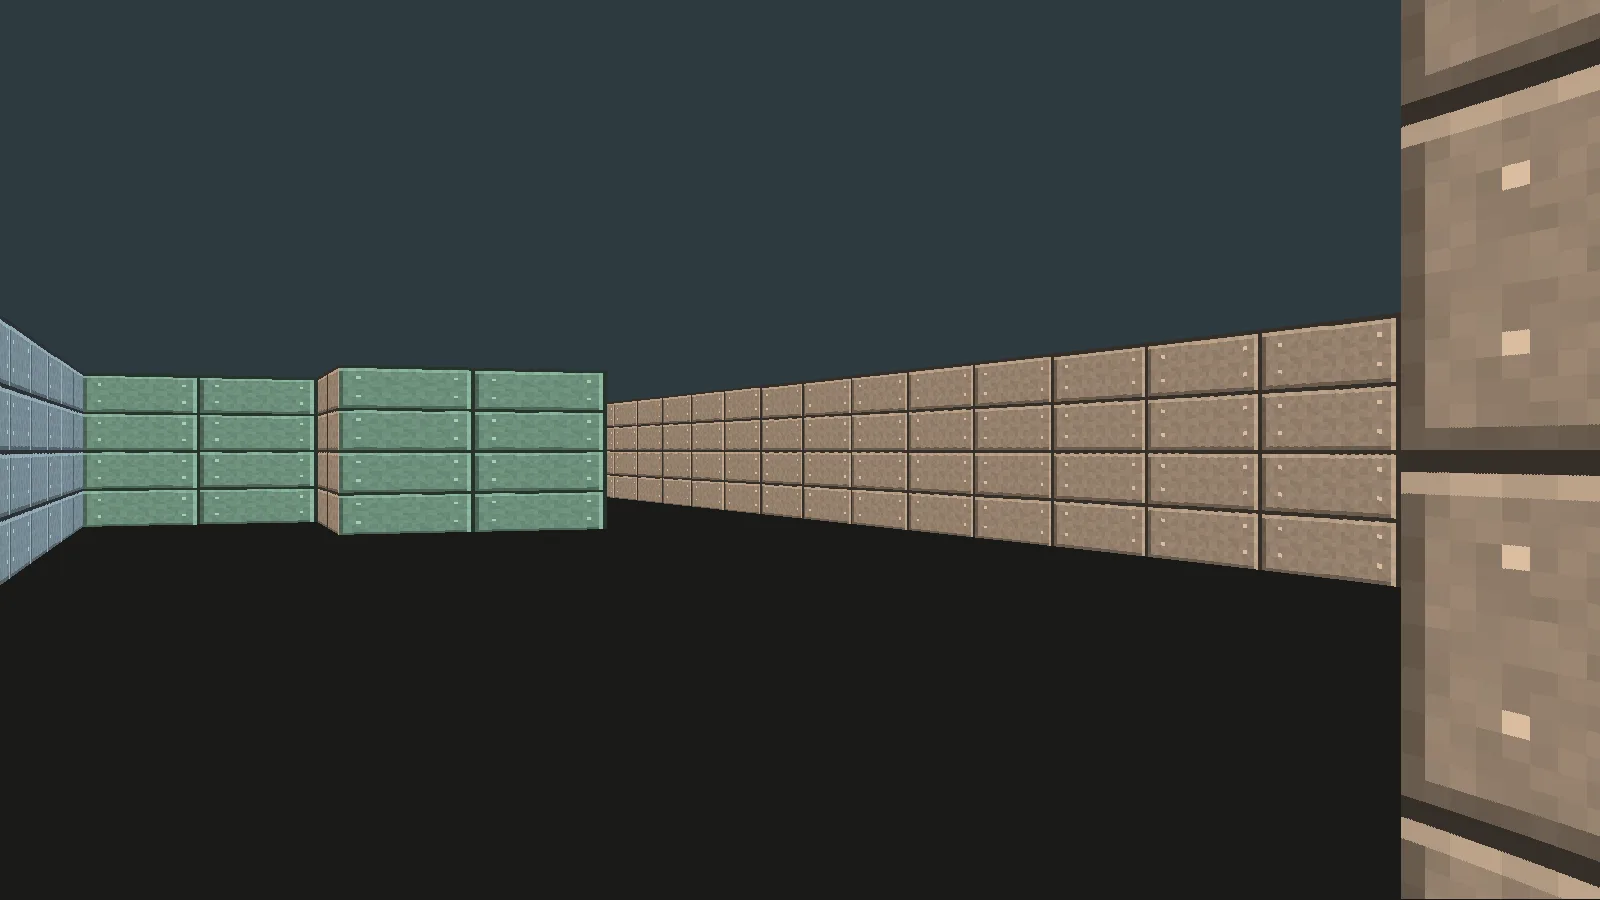
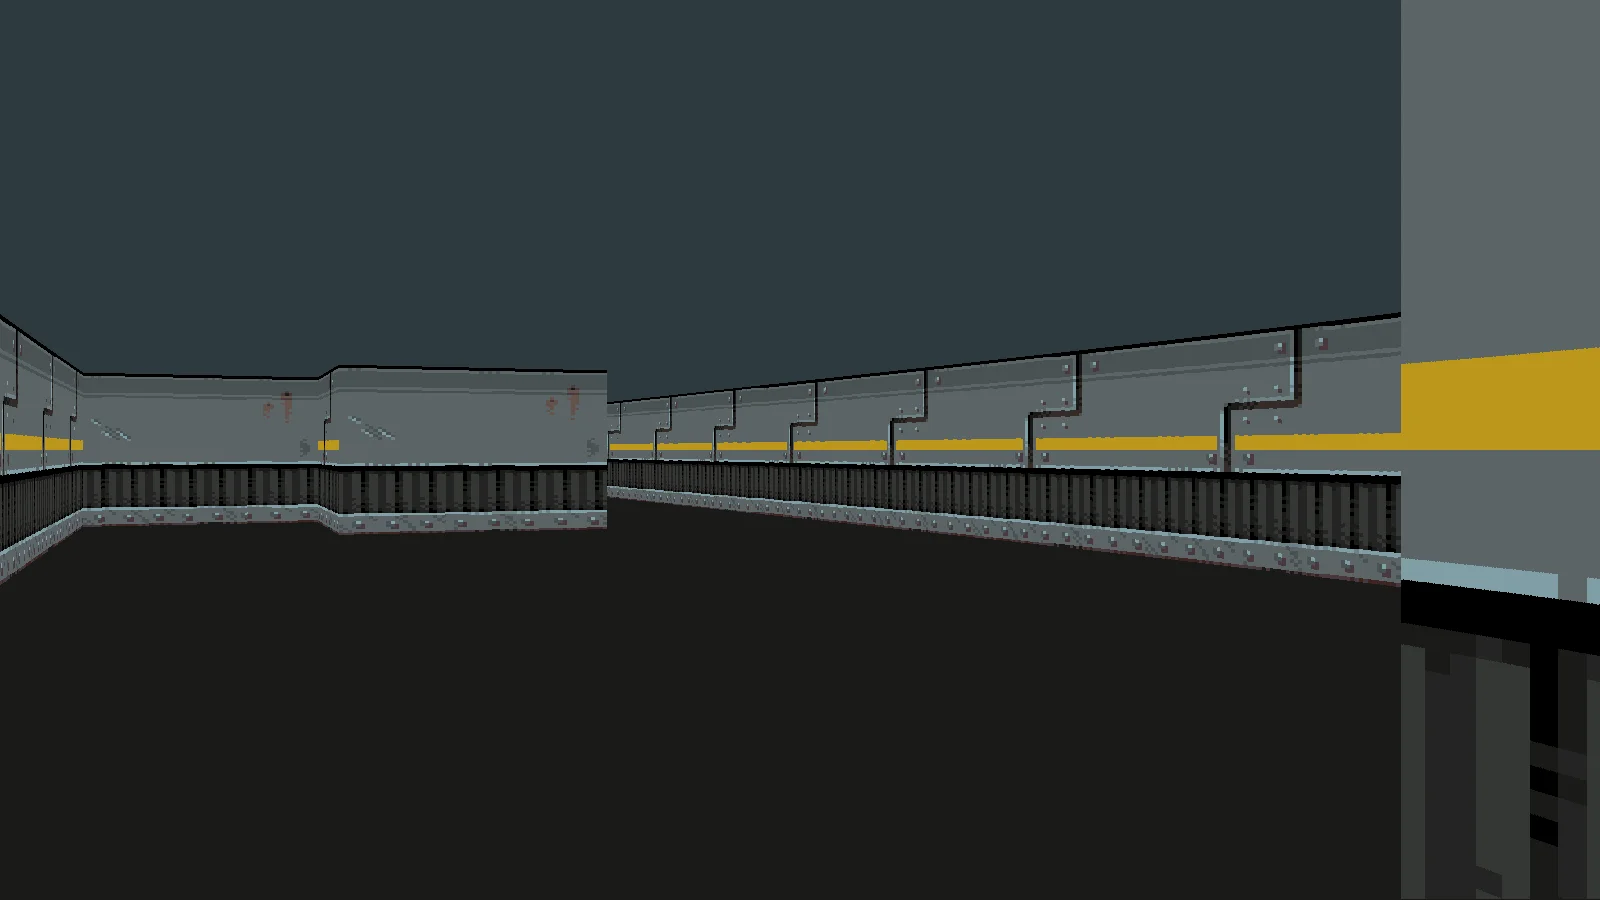
content(cub3d): use the repo's own wall textures
TECH_3B and TECH_1C from Cardano04class/cub3d/textures, converted from XPM to PNG
pixel for pixel. Each map gets the textures its .cub names per face (NO/SO/EA/WE),
replacing the generated panels. Cover and screenshots re-rendered with them.

Changed region(s): [[0.0, 0.0, 1.0, 1.0]]

diff --git a/app/components/demos/cub3d/raycast.ts b/app/components/demos/cub3d/raycast.ts
@@ -6,7 +6,9 @@
 
 export type Rgb = readonly [number, number, number];
 export type Player = { x: number; y: number; angle: number };
-export type CubMap = { grid: readonly string[]; cols: number; rows: number; floor: Rgb; ceiling: Rgb; spawn: Player };
+/** Texture file names per face, as written in the .cub (NO, SO, EA, WE = render indexes 0..3). */
+export type Faces = readonly [string, string, string, string];
+export type CubMap = { grid: readonly string[]; cols: number; rows: number; floor: Rgb; ceiling: Rgb; spawn: Player; faces: Faces };
 export type Texture = { size: number; px: Uint32Array };
 
 const FOV = (60 * Math.PI) / 180;
@@ -27,6 +29,11 @@ export function parseCub(text: string): CubMap {
         if (!parts || parts.length !== 3 || parts.some((n) => !(n >= 0 && n <= 255))) throw new Error("rgb range error");
         return [parts[0], parts[1], parts[2]];
     };
+    const face = (key: string) => {
+        const path = lines.find((l) => l.trim().startsWith(`${key} `))?.trim().split(/\s+/)[1];
+        if (!path) throw new Error("Error texture file path not found");
+        return path.slice(path.lastIndexOf("/") + 1).replace(/\.xpm$/, "");
+    };
     const configKeys = /^\s*(NO|SO|WE|EA|F|C)\s/;
     const raw = lines.filter((l) => l.trim() !== "" && !configKeys.test(l)).map((l) => l.replace(/\s+$/, ""));
     if (raw.length === 0) throw new Error("Error, map not found");
@@ -44,7 +51,7 @@ export function parseCub(text: string): CubMap {
     const grid = raw.map((row) => row.replace(/[NSEW]/, "0").replace(/ /g, "1").padEnd(cols, "1"));
     if (/[^1]/.test(grid[0])) throw new Error("error (first map row should all 1)");
     if (/[^1]/.test(grid[grid.length - 1])) throw new Error("error (last map row should be all 1)");
-    return { grid, cols, rows: grid.length, floor: rgb("F"), ceiling: rgb("C"), spawn };
+    return { grid, cols, rows: grid.length, floor: rgb("F"), ceiling: rgb("C"), spawn, faces: [face("NO"), face("SO"), face("EA"), face("WE")] };
 }
 
 const isWall = (map: CubMap, x: number, y: number) => {
@@ -119,25 +126,4 @@ export function render(buf: Uint32Array, w: number, h: number, map: CubMap, p: P
             buf[y * w + col] = t.px[ty * t.size + tx];
         }
     }
-}
-
-/** Four 64×64 tech-panel textures, one tint per wall face (the repo's own XPMs are third-party art). */
-export function makeTextures(): Texture[] {
-    const tints: Rgb[] = [[120, 140, 150], [150, 130, 110], [110, 145, 125], [140, 120, 150]];
-    return tints.map((tint) => {
-        const size = 64;
-        const px = new Uint32Array(size * size);
-        for (let y = 0; y < size; y++) {
-            for (let x = 0; x < size; x++) {
-                const seam = x % 32 === 0 || y % 16 === 0;
-                const bevel = x % 32 === 1 || y % 16 === 1 ? 1.25 : x % 32 === 31 || y % 16 === 15 ? 0.7 : 1;
-                const rivet = (x % 32 === 4 || x % 32 === 27) && (y % 16 === 4 || y % 16 === 11);
-                const noise = 0.92 + (((x * 7 + y * 13) ^ (x * y)) & 7) / 60;
-                const k = seam ? 0.35 : rivet ? 1.45 : bevel * noise;
-                const c = (v: number) => Math.min(255, Math.round(v * k));
-                px[y * size + x] = pack([c(tint[0]), c(tint[1]), c(tint[2])]);
-            }
-        }
-        return { size, px };
-    });
 }

diff --git a/app/components/demos/cub3d/cub3d-demo.tsx b/app/components/demos/cub3d/cub3d-demo.tsx
@@ -3,7 +3,8 @@
 import { useEffect, useMemo, useRef, useState } from "react";
 import type { DemoProps } from "../project-demo";
 import { MAPS } from "./maps";
-import { makeTextures, parseCub, render, step, type Player } from "./raycast";
+import { parseCub, render, step, type Player, type Texture } from "./raycast";
+import { loadFaceTextures } from "./textures";
 
 // The repo moves 0.01 tile and turns 0.5° per frame from an uncapped mlx loop, so its real speed depends on the
 // machine. The demo uses fixed per-second speeds (≈ that step at 180 fps) so every screen feels the same.
@@ -21,7 +22,14 @@ const KEYMAP: Record<string, [keyof Keys, number]> = {
 export default function Cub3dDemo({ active }: DemoProps) {
     const [mapName, setMapName] = useState<keyof typeof MAPS>("big");
     const map = useMemo(() => parseCub(MAPS[mapName]), [mapName]);
-    const textures = useMemo(() => makeTextures(), []);
+    const [textures, setTextures] = useState<{ map: typeof map; list: Texture[] } | null>(null);
+    useEffect(() => {
+        let live = true;
+        loadFaceTextures(map).then((list) => live && setTextures({ map, list }));
+        return () => {
+            live = false;
+        };
+    }, [map]);
     const canvasRef = useRef<HTMLCanvasElement>(null);
     const miniRef = useRef<HTMLCanvasElement>(null);
     const player = useRef<Player>(map.spawn);
@@ -37,7 +45,9 @@ export default function Cub3dDemo({ active }: DemoProps) {
     useEffect(() => {
         const canvas = canvasRef.current;
         const ctx = canvas?.getContext("2d");
-        if (!canvas || !ctx || !active) return;
+        // Wait for this map's textures (the repo's XPMs, decoded once) before drawing.
+        if (!canvas || !ctx || !active || textures?.map !== map) return;
+        const faceTextures = textures.list;
         function drawMinimap() {
             const c = miniRef.current?.getContext("2d");
             if (!c || miniRef.current?.classList.contains("hidden")) return;
@@ -66,7 +76,7 @@ export default function Cub3dDemo({ active }: DemoProps) {
             const dt = Math.min(0.05, (now - last) / 1000);
             last = now;
             player.current = step(map, player.current, keys.current, MOVE_PER_S * dt, TURN_PER_S * dt);
-            render(buf, W, H, map, player.current, textures);
+            render(buf, W, H, map, player.current, faceTextures);
             ctx.putImageData(img, 0, 0);
             drawMinimap();
             raf = requestAnimationFrame(frame);

diff --git a/app/components/demos/cub3d/raycast.test.ts b/app/components/demos/cub3d/raycast.test.ts
@@ -1,6 +1,7 @@
 import { test } from "node:test";
 import assert from "node:assert/strict";
-import { castRay, isWalkable, makeTextures, parseCub, render, step } from "./raycast.ts";
+import sharp from "sharp";
+import { castRay, isWalkable, parseCub, render, step, type Texture } from "./raycast.ts";
 import { MAPS } from "./maps.ts";
 
 test("the repo's maps parse: colours, size, spawn at tile centre facing the letter", () => {
@@ -56,13 +57,34 @@ test("rotation wraps into [0, 2π)", () => {
     assert.ok(p.angle > 6 && p.angle < 2 * Math.PI);
 });
 
-test("render fills every pixel (ceiling, floor, walls) without throwing at any angle", () => {
+test("render fills every pixel (ceiling, floor, walls) without throwing at any angle", async () => {
     const m = parseCub(MAPS.big);
-    const tex = makeTextures();
+    const tex = await Promise.all(m.faces.map(load));
     const buf = new Uint32Array(160 * 80);
     for (let a = 0; a < 2 * Math.PI; a += 0.3) {
         buf.fill(0);
         render(buf, 160, 80, m, { ...m.spawn, angle: a }, tex);
         assert.ok(buf.every((v) => v !== 0));
     }
+});
+
+/** Decodes a texture PNG with sharp (installed with Next.js) into the renderer's pixel format. */
+async function load(name: string): Promise<Texture> {
+    const { data, info } = await sharp(`src/projects/cub3d/textures/${name}.png`).ensureAlpha().raw().toBuffer({ resolveWithObject: true });
+    return { size: info.width, px: new Uint32Array(data.buffer, data.byteOffset, data.length / 4) };
+}
+
+test("each map uses the textures its .cub names, like the repo", () => {
+    assert.deepEqual(parseCub(MAPS.big).faces, ["TECH_3B", "TECH_3B", "TECH_1C", "TECH_1C"]);
+    assert.deepEqual(parseCub(MAPS.small).faces, ["TECH_3B", "TECH_3B", "TECH_3B", "TECH_3B"]);
+});
+
+test("the repo's textures are drawn: wall pixels come from the TECH_3B palette", async () => {
+    const m = parseCub(MAPS.small);
+    const tex = await Promise.all(m.faces.map(load));
+    const palette = new Set(tex[0].px);
+    const buf = new Uint32Array(160 * 80);
+    render(buf, 160, 80, m, { ...m.spawn, angle: Math.PI }, tex); // looking down the corridor at a wall
+    const wall = buf[40 * 160 + 80];
+    assert.ok(palette.has(wall), wall.toString(16));
 });

diff --git a/app/components/demos/cub3d/textures.ts b/app/components/demos/cub3d/textures.ts
@@ -1,0 +1,32 @@
+import tech1c from "@/src/projects/cub3d/textures/TECH_1C.png";
+import tech3b from "@/src/projects/cub3d/textures/TECH_3B.png";
+import type { CubMap, Texture } from "./raycast";
+
+/** The repo's own wall textures (textures/*.xpm), converted to PNG pixel for pixel. */
+const FILES: Record<string, string> = { TECH_1C: tech1c.src, TECH_3B: tech3b.src };
+
+async function decode(url: string): Promise<Texture> {
+    const img = new Image();
+    img.src = url;
+    await img.decode();
+    const size = img.naturalWidth;
+    const ctx = new OffscreenCanvas(size, size).getContext("2d");
+    if (!ctx) throw new Error("2D canvas unavailable");
+    ctx.drawImage(img, 0, 0);
+    return { size, px: new Uint32Array(ctx.getImageData(0, 0, size, size).data.buffer) };
+}
+
+const cache = new Map<string, Promise<Texture>>();
+
+/** Loads the four face textures a map names (NO, SO, EA, WE), in render order. */
+export function loadFaceTextures(map: CubMap): Promise<Texture[]> {
+    return Promise.all(
+        map.faces.map((name) => {
+            const url = FILES[name];
+            if (!url) return Promise.reject(new Error("Error texture file path not found"));
+            const hit = cache.get(name) ?? decode(url);
+            cache.set(name, hit);
+            return hit;
+        }),
+    );
+}
